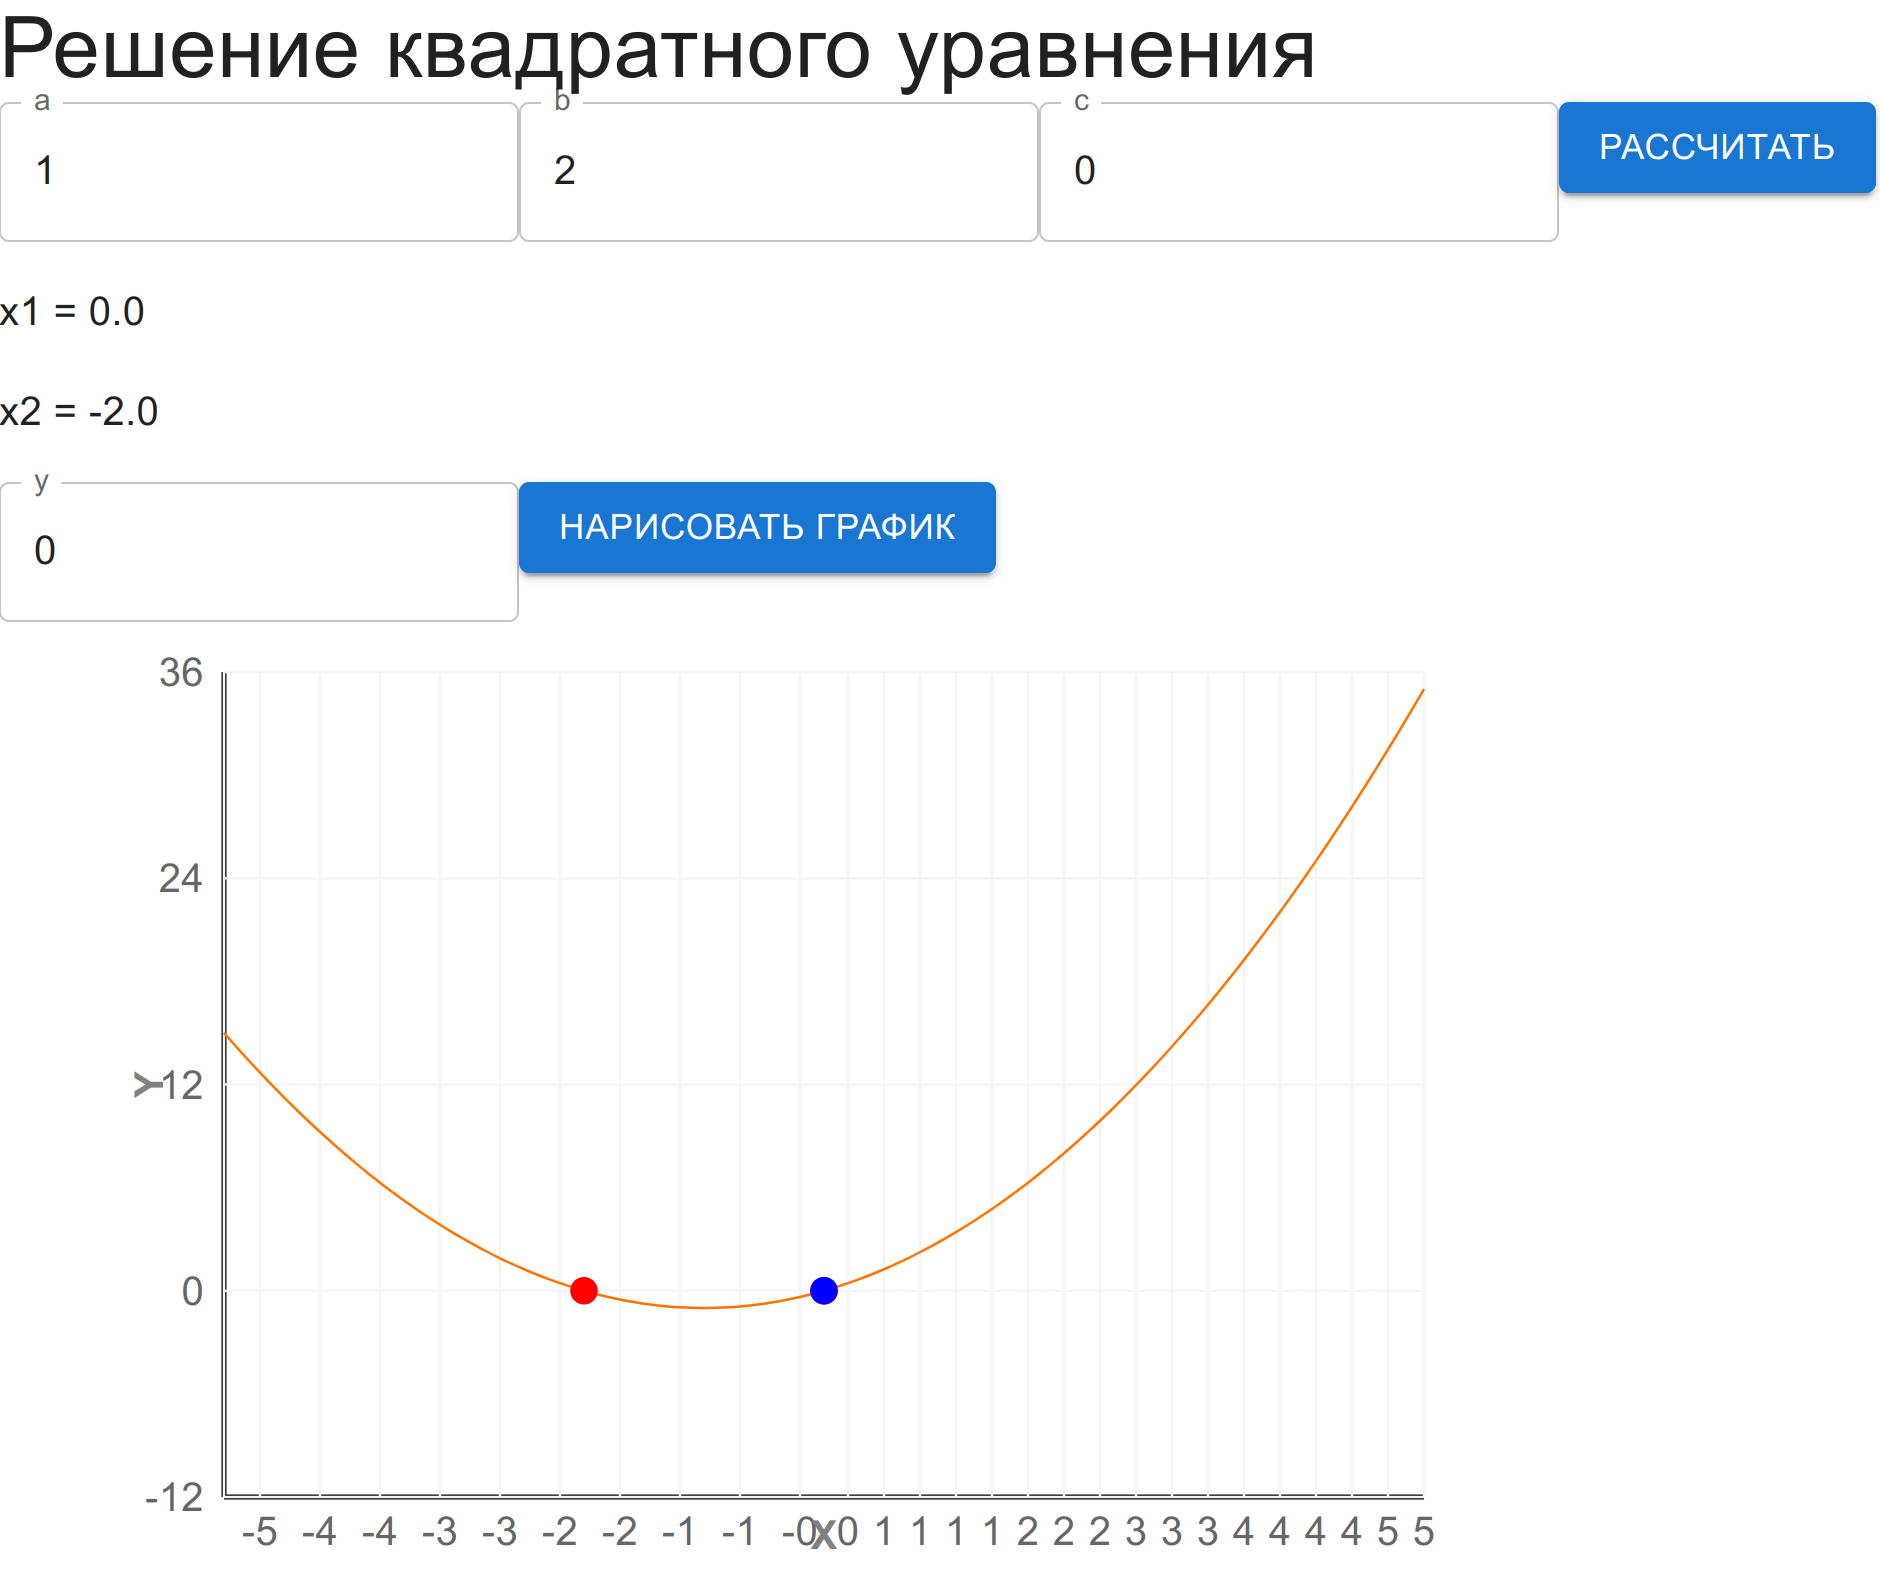
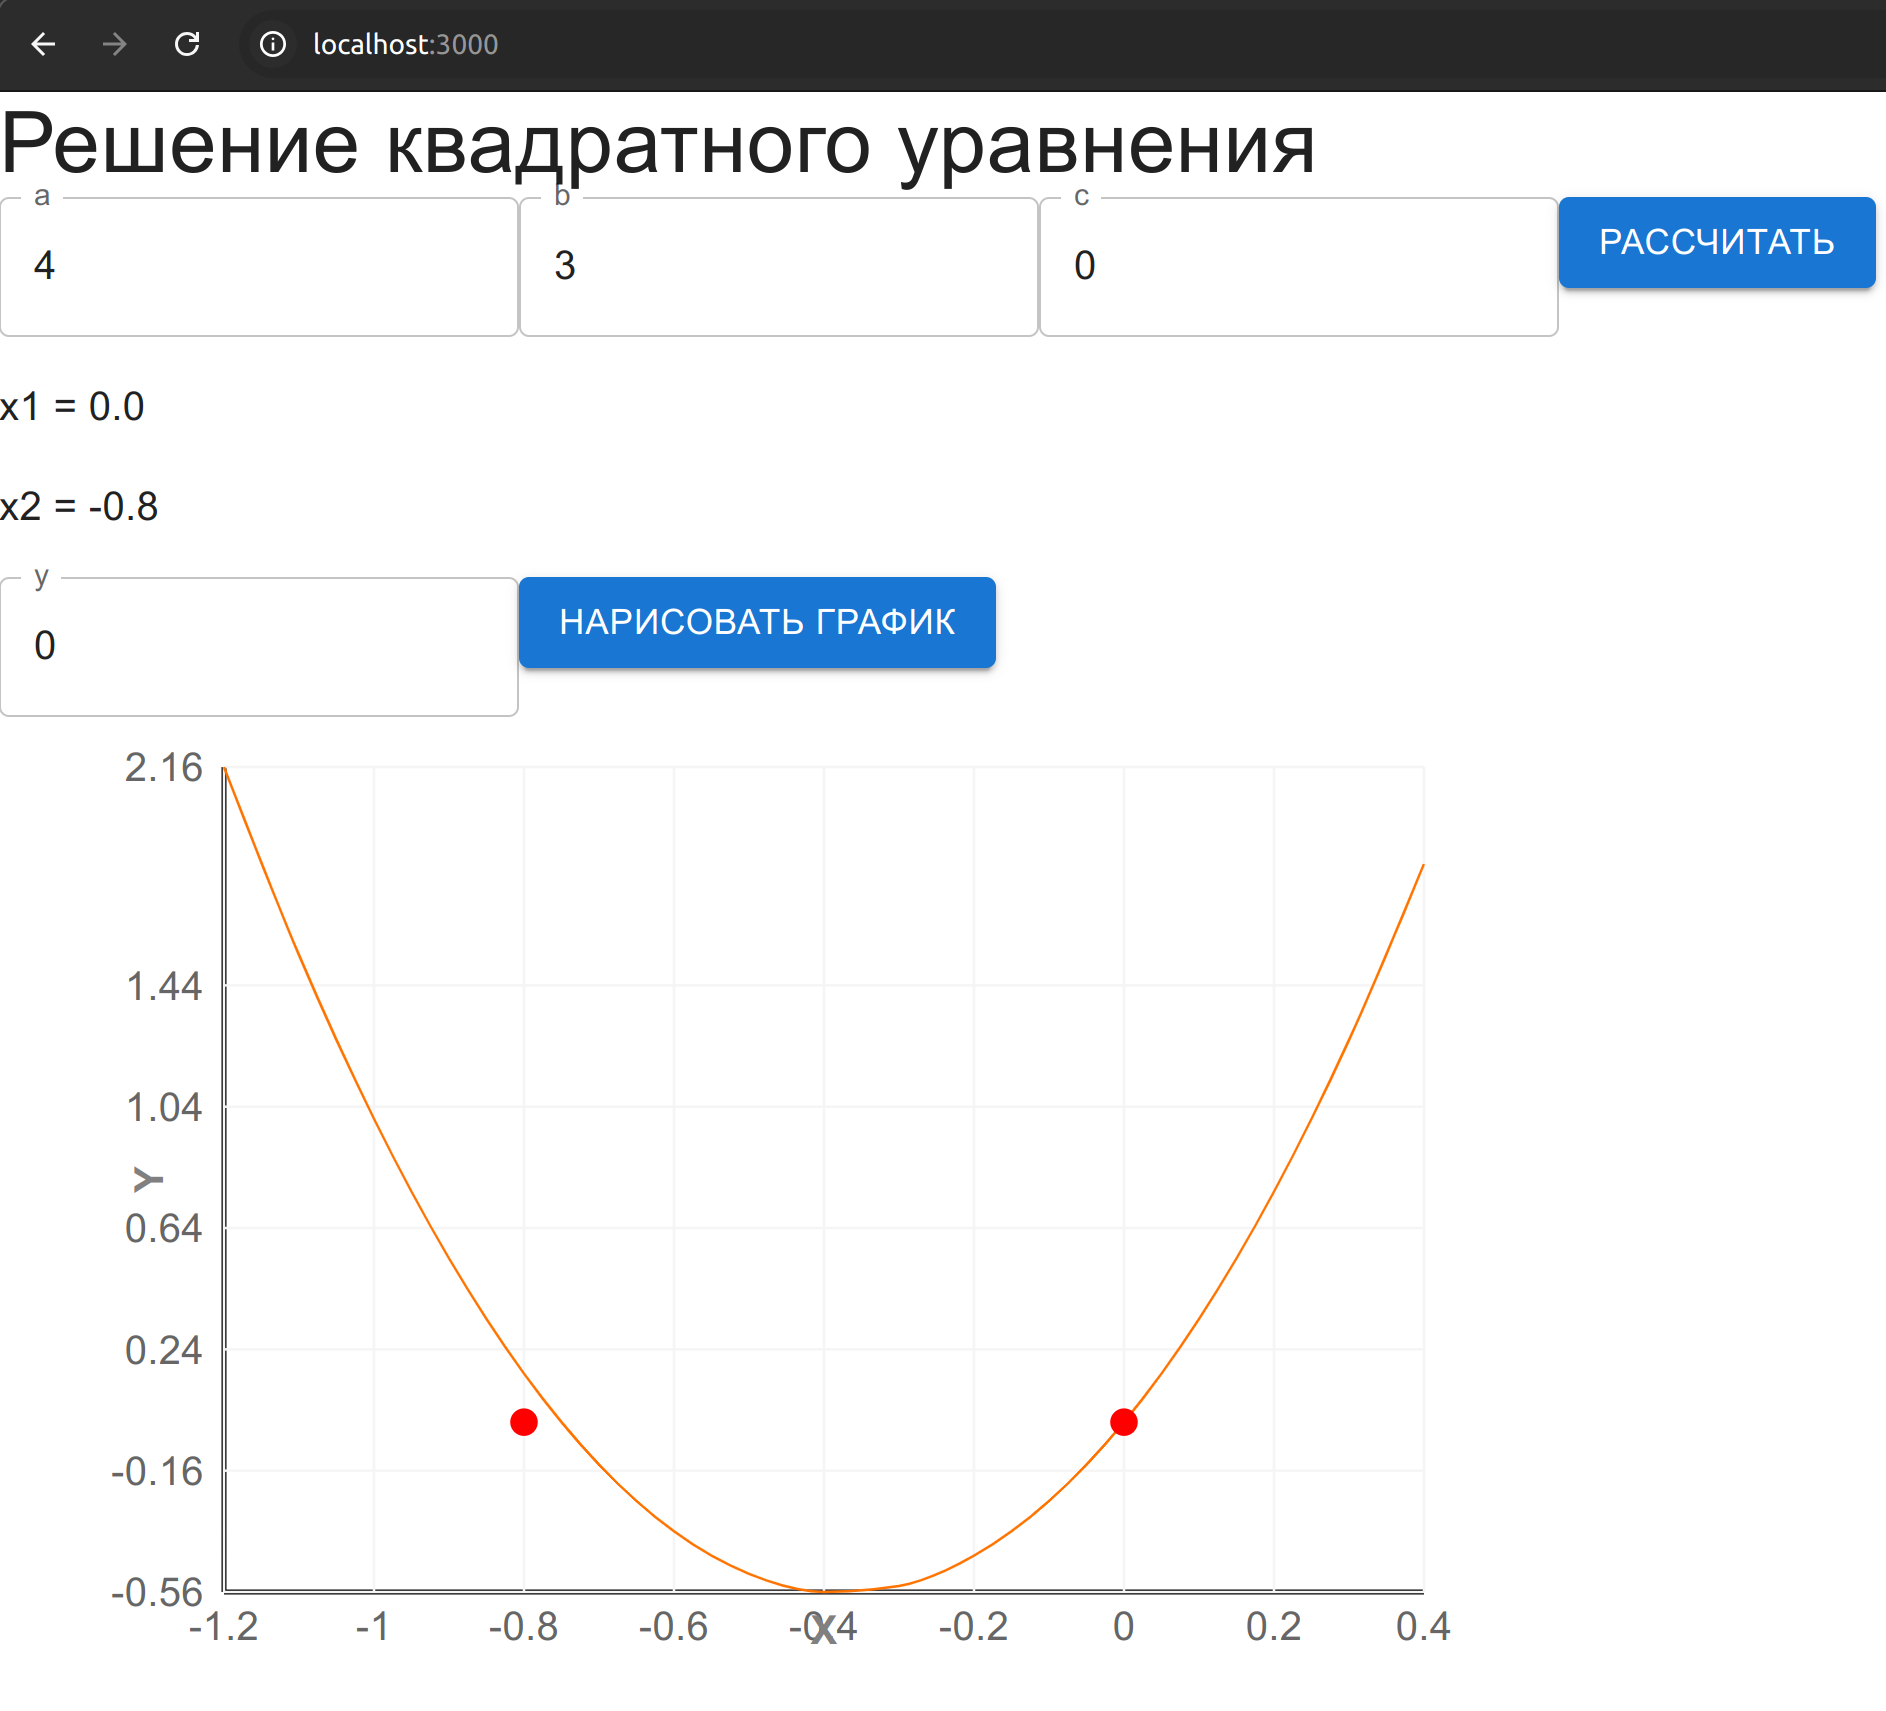
correction of graf left and right extention

diff --git a/src/app/components/Graph.tsx b/src/app/components/Graph.tsx
@@ -24,34 +24,32 @@ const Graph: React.FC<GraphProps> = ({ data, roots, yValue }) => {
     <LineChart width={600} height={400} data={data} margin={{ top: 20, right: 30, bottom: 20, left: 30 }}>
       <XAxis
         dataKey="x"
-        tickFormatter={(value) => value.toFixed(0)}
         axisLine={{ stroke: 'black', strokeWidth: 2 }}
         tickLine={false}
+        tickCount={10}
         label={{ value: 'X', position: 'end', offset: 10, fontWeight: 'bold' }}
+        type="number"
+        domain={['dataMin', 'dataMax']}
       />
       <YAxis
-        tickFormatter={(value) => value.toFixed(0)}
+        dataKey="y"
         axisLine={{ stroke: 'black', strokeWidth: 2 }}
         tickLine={false}
+        tickCount={8}
         label={{ value: 'Y', angle: -90, position: 'end', offset: 10, fontWeight: 'bold' }}
+        type="number"
+        domain={['dataMin', 'dataMax']}
       />
       <CartesianGrid stroke="#f5f5f5" />
       <Line type="monotone" dataKey="y" stroke="#ff7300" dot={false} />
       <Tooltip
-          formatter={(value, name) => `${value.toFixed(2)}`}
-          labelFormatter={(label) => `x: ${label.toFixed(2)}`}
+        formatter={(value) => `${value.toFixed(2)}`}
+        labelFormatter={(label) => `x: ${label.toFixed(2)}`}
       />
-      {/* Отображаем точки для корней уравнения */}
+
       {roots.map((root, index) => (
         <ReferenceDot key={index} x={root} y={yValue} stroke="red" fill="red" r={5} />
       ))}
-
-      {/* Отображаем точку для введенного значения y, если оно задано */}
-      {yValue !== null && <ReferenceDot x={0} y={yValue} stroke="blue" fill="blue" r={5} />}
-
-      {/* Добавляем стрелки для осей */}
-      <ReferenceArea x1={-5} x2={5} y1={0} y2={0} stroke="black" strokeWidth={2} />
-      <ReferenceArea x1={0} x2={0} y1={-12} y2={36} stroke="black" strokeWidth={2} />
     </LineChart>
   );
 };

diff --git a/src/app/components/InputForm.tsx b/src/app/components/InputForm.tsx
@@ -48,15 +48,14 @@ export default function InputForm() {
     if (result.x) {
       minX = Math.min(minX, parseFloat(result.x.split('=')[1]));
       maxX = Math.max(maxX, parseFloat(result.x.split('=')[1]));
+    } else {
+      minX = Math.min(parseFloat(result.x1.split('=')[1]), parseFloat(result.x2.split('=')[1]));
+      maxX = Math.max(parseFloat(result.x1.split('=')[1]), parseFloat(result.x2.split('=')[1]));
     }
-    if (result.x1) {
-      minX = Math.min(minX, parseFloat(result.x1.split('=')[1]));
-      maxX = Math.max(maxX, parseFloat(result.x1.split('=')[1]));
-    }
-    if (result.x2) {
-      minX = Math.min(minX, parseFloat(result.x2.split('=')[1]));
-      maxX = Math.max(maxX, parseFloat(result.x2.split('=')[1]));
-    }
+
+    let distance = maxX - minX;
+    minX -= distance / 2;
+    maxX += distance / 2;
 
     const step = 0.1;
 
